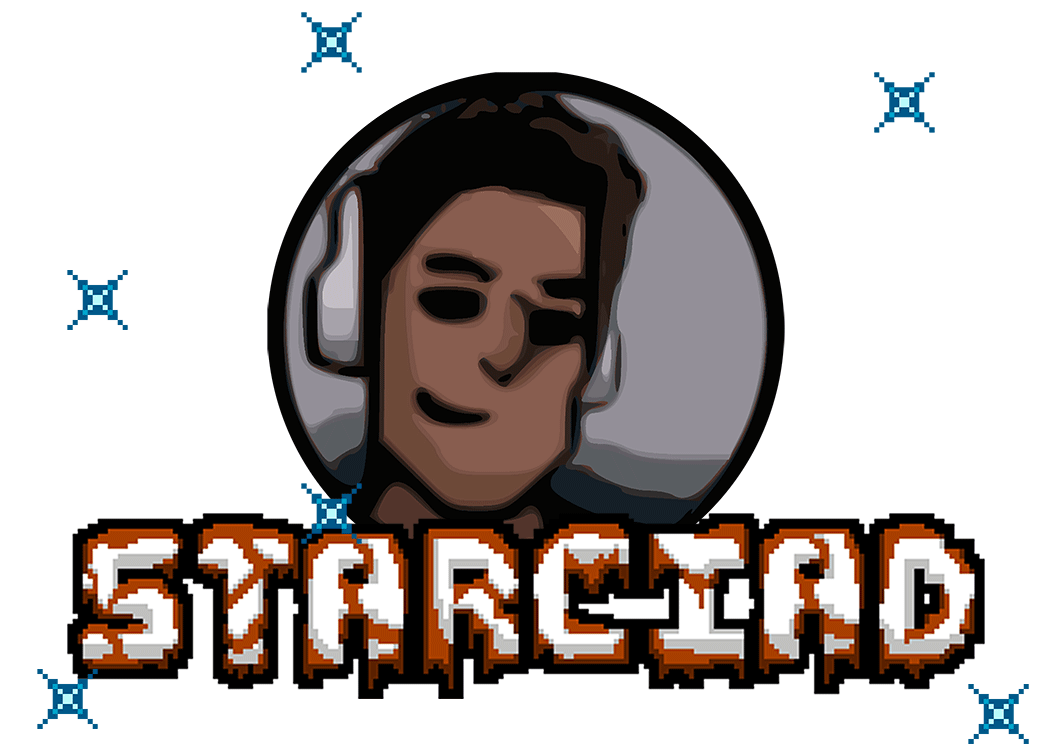
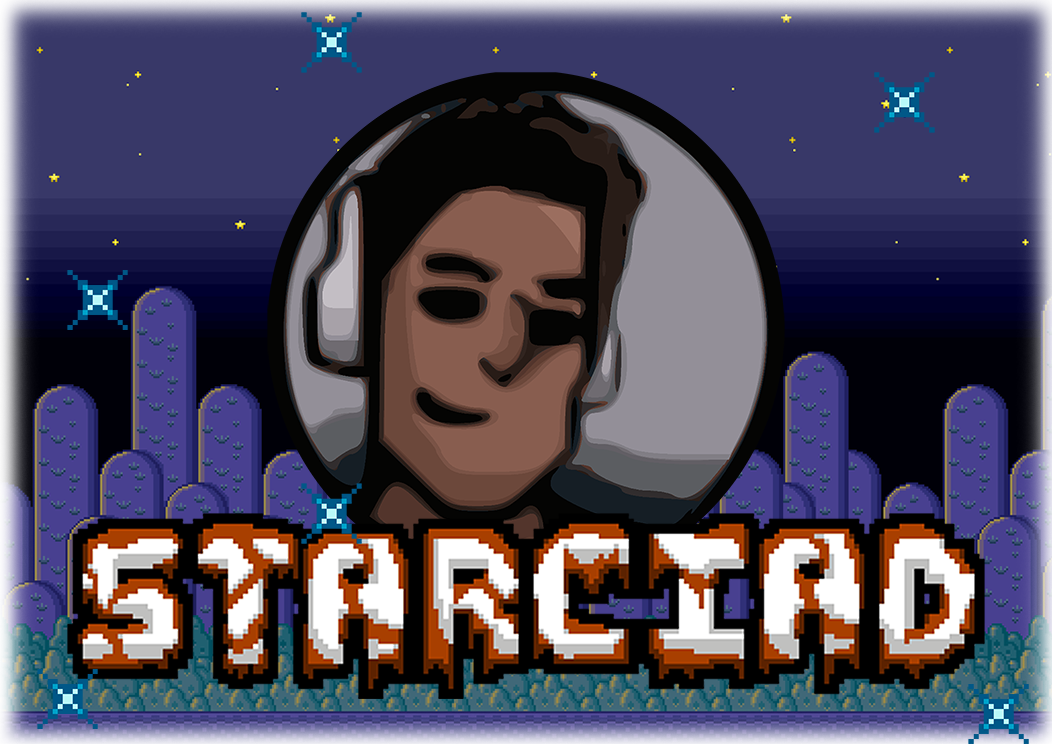
✨ FEAT: Addition of new sprites and general update of main Readme. Adding separate style files.

diff --git a/styles/global_style.css b/styles/global_style.css
@@ -1,0 +1,5 @@
+.text {
+    text-align: justify;
+    text-indent: 50px;
+    line-height: 1.5;
+}

diff --git a/styles/index/index_button_style.css b/styles/index/index_button_style.css
@@ -1,0 +1,6 @@
+.link-button {
+    
+}
+
+/* ======= */
+/* BUTTONS */

diff --git a/README.md b/README.md
@@ -1,57 +1,126 @@
+<!-- STYLES -->
+<link rel="stylesheet" href="styles/global_style.css"/>
+<link rel="stylesheet" href="styles/index/index_button_style.css"/>
+
+<!-- INTRO -->
+<div align="center">
+	<img src="assets/images/banners/starciad-banner.png" width="90%"/>
+</div>
+
+<br/>
 <br/>
 
-> ⚠ 》 Todos os Assets e Conteúdo de mídias visuais encontrados nesse repositório foram feitos totalmente do zero por mim!
+> 🚧 ➥ Essa página está em construção, o que significa que o conteúdo atual pode mudar posteriormente.
 
 <br/>
 
-<h1 align=”center”>🛎 ◈ Seja muitíssimo Bem-Vindo ◈ 🛎</h1>
+<!-- CODE -->
+<div align="center">
+	<h2>🛎 ◈ Seja muitíssimo Bem-Vindo ◈ 🛎</h2>
+</div>
 
 <h3><code>1.</code> INTRODUÇÃO</h3>
- <p>Me chamo Davi Lucas (Mais conhecido pelo apelido Starciad) e sou um grande Aspirante da programação!</p>
-<p>Sempre fui um entusiasta de assuntos que envolvessem computação e tecnologia, seja programação, TI, Softwares e qualquer outro assunto deste tipo. Até o momento levo a programação como apenas um hobby, porém trilho meu caminho aos poucos nesse grande mundo que é a tecnologia!</p>
+<div class="text">
+	<p>Me chamo Davi Lucas (Mais conhecido pelo apelido Starciad) e sou um grande Aspirante da programação!</p>
+	<p>Sempre fui um entusiasta de assuntos que envolvessem computação e tecnologia, seja programação, TI, Softwares e qualquer outro assunto deste tipo. Até o momento levo a programação como apenas um hobby, porém trilho meu caminho aos poucos nesse grande mundo de tecnologia!</p>
+</div>
 
 ___
 
 <h3><code>2.</code> PERFIL</h3>
-<p>No meu perfil você irá encontrar todos os projetos que faço no tempo livro, seja projetos de teste, hobby, ou alguma tarefa de trabalho/escolar. Todos eles possuem suas próprias peculiaridades e pode ser interessante caso você queira ver como eu trabalho com meus programas!</p>
+<div class="text">
+	<p>No meu perfil você irá encontrar todos os projetos que faço no tempo livro, seja projetos de teste, hobby, ou alguma tarefa de trabalho/escola. Todos eles possuem suas próprias peculiaridades e podem ser interessantes caso você queira ver como eu trabalho e programo!</p>
+</div>
 
-<h3>📕 ◈ ALGUNS DETALHES ◈ 📕</h3>
+<div align="center">
+	<h3>📕 ◈ ALGUNS DETALHES ◈ 📕</h3>
+</div>
+
 <p>➥ Sinta-se livre para explorar os meus repositórios.</p>
 <p>➥ Caso tenha interesse, você pode me ajudar colaborando com algum de meus repositórios!</p>
 
 > ⚠  》 Caso a ajuda esteja permitida no <b>Readme</b> principal do repositório.
 
 <p>➥ Quase todos os programas terão pequenas ideias e serão apenas por aprendizagem pessoal.</p>
+<br/>
 
 ___
 
- <h3><code>3.</code> HISTÓRIA</h3>
-<p>Para mais informações sobre minha história de vida, clique no botão abaixo para ser redirecionado para a página HÍSTORIA.</p> 
+<h3><code>3.</code> HISTÓRIA</h3>
+<div class="text">
+	<p>Para mais informações sobre minha história de vida, clique no botão abaixo para ser redirecionado para a página HÍSTORIA.</p> 
+</div>
+
+<div align="center">
+	<a href="">
+		<image width="50%" src="assets/images/buttons/history-button.webp" />
+	</a>
+</div>
 
 ___
 
 <h3><code>4.</code> CARREIRA</h3>
-<P>Para informações atualizadas e detalhadas sobre minha carreira na área de tecnologia com informações atuais, você pode clicar no botão abaixo para ser redirecionado para a página de carreira.</p>
+<div class="text">
+	<p>Para informações atualizadas e detalhadas sobre minha carreira na área de tecnologia com informações atuais, você pode clicar no botão abaixo para ser redirecionado para a página de carreira.</p>
+</div>
+
+<div align="center">
+	<a href="">
+		<image width="50%" src="assets/images/buttons/career-button.webp" />
+	</a>
+</div>
 
 ___
 
 <h3><code>5.</code> FORMAÇÕES</h3>
-<p>Caso você queira ver informações sobre minha formação e percurso na área acadêmica, pode clicar no botão abaixo para ser redirecionado a página de formação acadêmica.</p>
+<div class="text">
+	<p>Caso você queira ver informações sobre minha formação e percurso na área acadêmica, pode clicar no botão abaixo para ser redirecionado a página de formação acadêmica.</p>
+</div>
+
+<div align="center">
+	<a href="">
+		<image width="50%" src="assets/images/buttons/technical-training-button.webp" />
+	</a>
+</div>
 
 ___
 
 <h3><code>6.</code> CONHECIMENTOS</h3>
-<p>Caso tenha interesse em saber e ter uma ideia das tecnologias que eu tenho conhecimento com descrições detalhadas sobre, clique no botão abaixo para ser redirecionado para a página de CONHECIMENTOS.</p>
+<div class="text">
+	<p>Caso tenha interesse em saber e ter uma ideia das tecnologias que eu tenho conhecimento com descrições detalhadas sobre, clique no botão abaixo para ser redirecionado para a página de CONHECIMENTOS.</p>
+</div>
+
+<div align="center">
+	<a href="">
+		<image width="50%" src="assets/images/buttons/knowledge-button.webp" />
+	</a>
+</div>
 
 ___
 
 <h3><code>7.</code> PROJETOS</h3>
-<p>Gostaria de ver os projetos nos quais eu estive trabalhando? Clique no botão abaixo para ser redirecionado para a página de PROJETOS.</p>
+<div class="text">
+	<p>Gostaria de ver os projetos nos quais eu estive trabalhando? Clique no botão abaixo para ser redirecionado para a página de PROJETOS.</p>
+</div>
+
+<div align="center">
+	<a href="">
+		<image width="50%" src="assets/images/buttons/projects-button.webp" />
+	</a>
+</div>
 
 ___
 
 <h3><code>8.</code> CONQUISTAS</h3>
-<p>Gostaria de ver minhas conquistas e façanhas pessoais de um jeito mais animado e divertido? Clique no botão abaixo para ser redirecionado para a página de CONQUISTAS</p>
+<div class="text">
+	<p>Gostaria de ver minhas conquistas e façanhas pessoais de um jeito mais animado e divertido? Clique no botão abaixo para ser redirecionado para a página de CONQUISTAS</p>
+</div>
+
+<div align="center">
+	<a href="">
+		<image width="50%" src="assets/images/buttons/achievements-button.webp" />
+	</a>
+</div>
 
 ___
 
